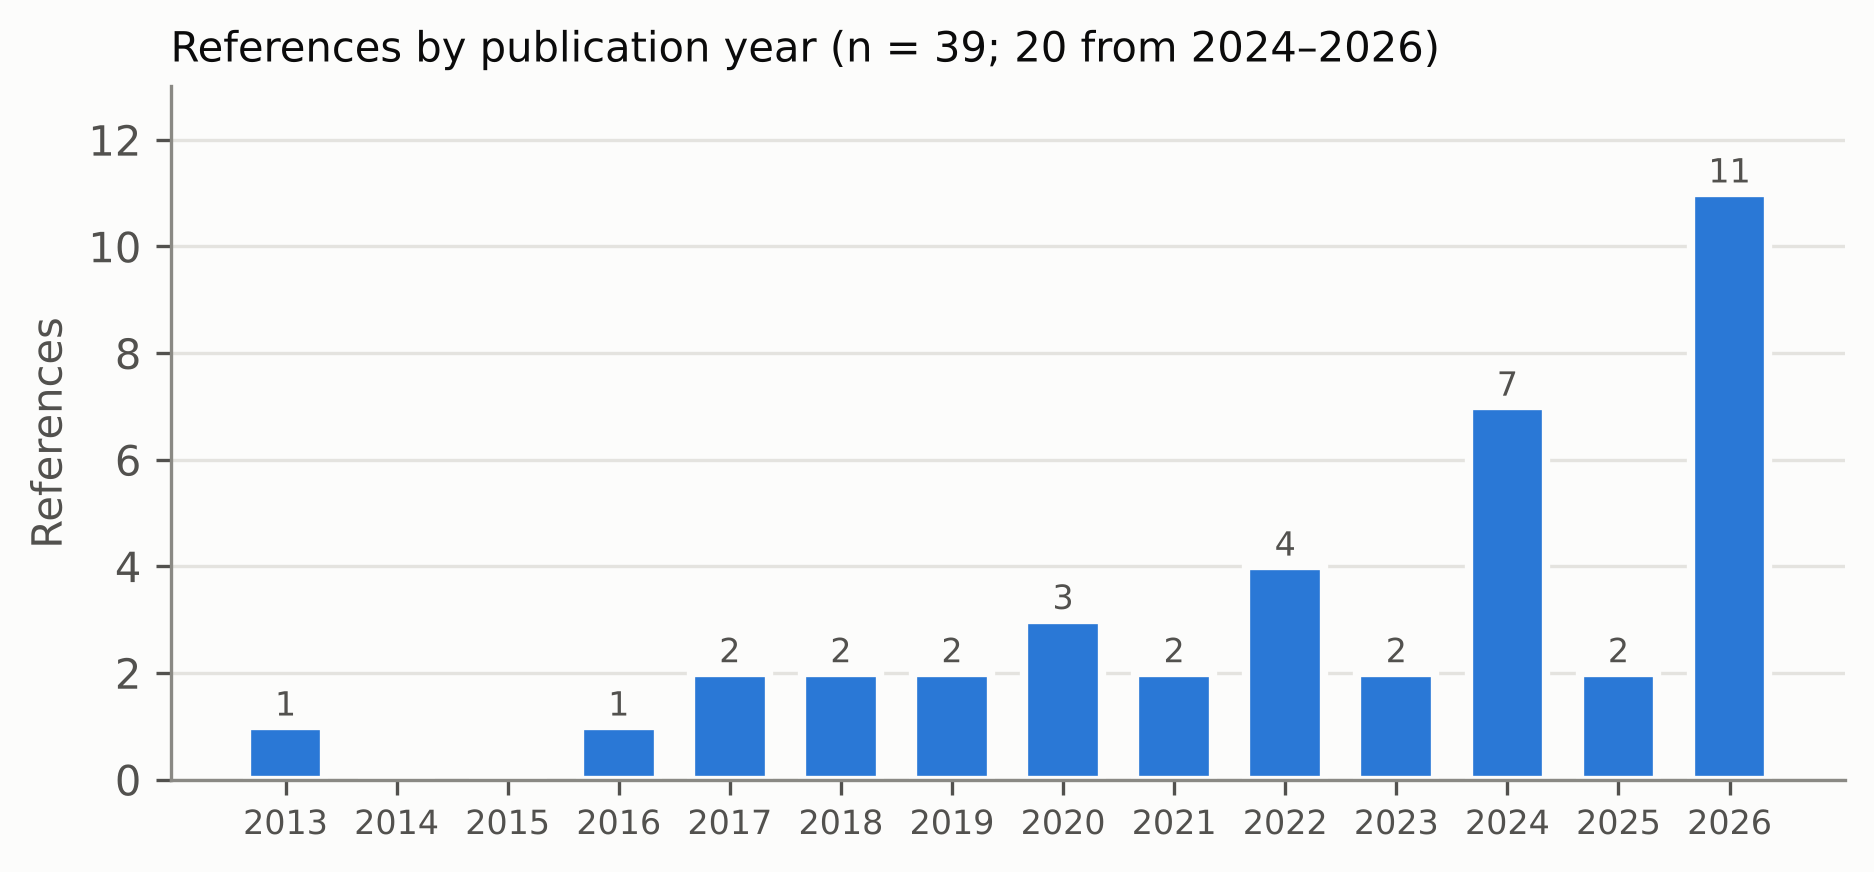
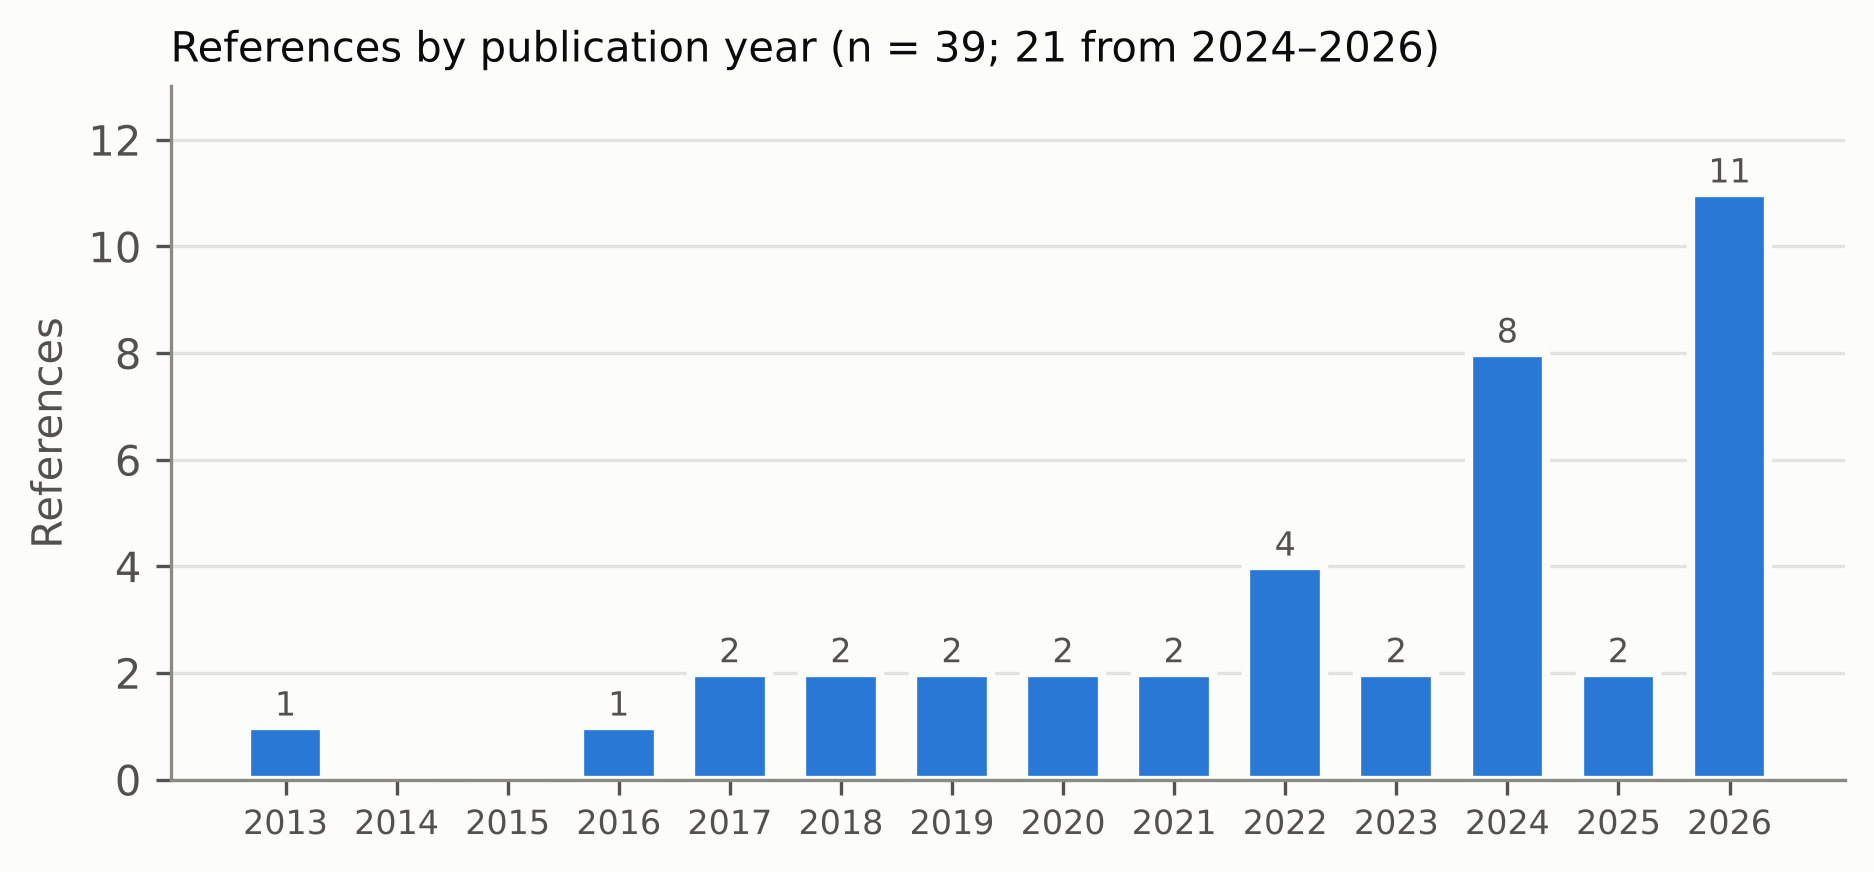
Replace Masanet with LBNL report as reference [1]; update figure 2.3
Claude-Session: https://claude.ai/code/session_01JnT9EYRxwG655caXrsEVoH

Changed region(s): [[0.7737, 0.4025, 0.8356, 0.4954], [0.5261, 0.7122, 0.588, 0.805], [0.5571, 0.031, 0.588, 0.0619]]

diff --git a/docs/literature/figures/make_ch2_figures.py b/docs/literature/figures/make_ch2_figures.py
@@ -103,7 +103,7 @@ def fig_positioning_map():
 
 # ---------------------------------------------------------------- Fig 2.3
 def fig_refs_by_year():
-    years = [2020, 2013, 2020, 2021, 2019, 2019, 2023, 2026, 2025, 2024, 2024, 2022, 2022,
+    years = [2024, 2013, 2020, 2021, 2019, 2019, 2023, 2026, 2025, 2024, 2024, 2022, 2022,
              2026, 2026, 2024, 2017, 2026, 2024, 2023, 2022, 2026, 2026, 2026, 2021, 2026,
              2026, 2026, 2022, 2024, 2018, 2016, 2024, 2025, 2026, 2024, 2017, 2020, 2018]
     yrs = np.arange(2013, 2027)

diff --git a/docs/literature/chapter2_draft_v1.md b/docs/literature/chapter2_draft_v1.md
@@ -1,6 +1,6 @@
 # Chapter 2 — Literature Review (Draft v1)
 
-> Status: full first draft covering all seven themes, based on 38 sources read (in full or in their key sections) plus one cited from its abstract (Masanet [1]). Figures 2.1–2.3 are generated by `figures/make_ch2_figures.py`. Citations in IEEE numeric style. Reference numbers follow the order in which sources were added to the draft; they will be renumbered by order of first appearance when converted to LaTeX/BibTeX. **Every claim must be checked by the author against the cited paper before submission.** Items marked *[TODO]* need an additional source.
+> Status: full first draft covering all seven themes, based on 38 sources read in full or in their key sections. Figures 2.1–2.3 are generated by `figures/make_ch2_figures.py`. Citations in IEEE numeric style. Reference numbers follow the order in which sources were added to the draft; they will be renumbered by order of first appearance when converted to LaTeX/BibTeX. **Every claim must be checked by the author against the cited paper before submission.** Items marked *[TODO]* need an additional source.
 
 ---
 
@@ -18,11 +18,11 @@ The review draws on 39 references identified through Crossref and IEEE Xplore se
 
 ## 2.2 AI Data Center Energy Demand
 
-Data centers consumed an estimated 240–340 TWh of electricity worldwide in 2022, about 1–1.3% of global demand [22]*[secondary citation: replace with the IEA source once obtained]*. In the United States, data center consumption reached 176 TWh in 2023, or 4.4% of national electricity use, and is projected to reach roughly 325–580 TWh by 2028—6.7–12.0% of forecast U.S. consumption—driven largely by AI-accelerated servers; at an average capacity utilization of 50%, this corresponds to 74–132 GW of data center power demand [40]. Some utilities report grid-connection waiting times of up to 7–10 years for such loads, as reported in [8]. Grid connections can now take more than five years in the United States and Europe, driving a trend toward "grid defection," in which data centers are fully or partly supplied by local microgrids with dedicated generation [28]. Earlier analyses found that global data center energy use grew far more slowly than computing output owing to efficiency gains [1]*[verify against full text]*; whether this holds in the AI era is uncertain.
+Data centers consumed an estimated 240–340 TWh of electricity worldwide in 2022, about 1–1.3% of global demand [22]*[secondary citation: replace with the IEA source once obtained]*. In the United States, data center consumption reached 176 TWh in 2023, or 4.4% of national electricity use, and is projected to reach roughly 325–580 TWh by 2028—6.7–12.0% of forecast U.S. consumption—driven largely by AI-accelerated servers; at an average capacity utilization of 50%, this corresponds to 74–132 GW of data center power demand [1]. Some utilities report grid-connection waiting times of up to 7–10 years for such loads, as reported in [8]. Grid connections can now take more than five years in the United States and Europe, driving a trend toward "grid defection," in which data centers are fully or partly supplied by local microgrids with dedicated generation [28]. Through the early and mid-2010s, U.S. data center electricity use remained nearly constant despite rapid industry growth, owing to efficiency gains such as improved cooling and power management, higher server utilization and reduced idle power; growth has since accelerated with the rapid emergence of AI hardware [1].
 
 Estimates themselves are uncertain. A review of 258 data center energy estimates from 46 publications (2007–2021) found that only 31% of the 676 underlying sources were peer-reviewed, that many lacked clear methods and data provenance, and that estimates relied heavily on private datasets [29]. The same review notes that unexpected data center demand is already constraining grid operators, for example in Amsterdam and London [29].
 
-**Load shape.** AI data centers draw power that is high and nearly constant on hourly timescales. In a production trace of 155,410 GPUs, median facility demand was 55.8 MW and only a small fraction of it was curtailable (Section 2.4) [26], and national energy models assume that AI servers used for training operate 80% of the time [40]. Facility-level consumption also includes cooling and power-conversion overheads, summarized by power usage effectiveness (PUE). Simulations across U.S. climates show that PUE varies widely with facility type and cooling system, with the highest values for poorly operated facilities in hot, humid climates [40]—relevant to data centers in the Gulf.
+**Load shape.** AI data centers draw power that is high and nearly constant on hourly timescales. In a production trace of 155,410 GPUs, median facility demand was 55.8 MW and only a small fraction of it was curtailable (Section 2.4) [26], and national energy models assume that AI servers used for training operate 80% of the time [1]. Facility-level consumption also includes cooling and power-conversion overheads, summarized by power usage effectiveness (PUE). Simulations across U.S. climates show that PUE varies widely with facility type and cooling system, with the highest values for poorly operated facilities in hot, humid climates [1]—relevant to data centers in the Gulf.
 
 **Implication for this work.** Because demand forecasts are uncertain and AI facilities are large and inflexible, this dissertation evaluates supply options for a range of data center sizes rather than a single forecast, and treats the data center load as constant.
 
@@ -119,7 +119,7 @@ No study was found that (i) treats a constant-load AI data center as inflexible;
 
 ## References
 
-[1] E. Masanet, A. Shehabi, N. Lei et al., "Recalibrating global data center energy-use estimates," *Science*, vol. 367, no. 6481, pp. 984–986, 2020, doi: 10.1126/science.aba3758. *(cited from abstract; full text not available)*
+[1] A. Shehabi, S. Smith, A. Hubbard et al., "2024 United States data center energy usage report," Lawrence Berkeley National Laboratory, Berkeley, CA, USA, Rep. LBNL-2001637, Dec. 2024, doi: 10.71468/P1WC7Q.
 [2] Z. Liu, A. Wierman, Y. Chen et al., "Data center demand response: Avoiding the coincident peak via workload shifting and local generation," *Performance Evaluation*, vol. 70, no. 10, pp. 770–791, 2013, doi: 10.1016/j.peva.2013.08.014.
 [3] M. Chen, C. Gao, M. Song et al., "Internet data centers participating in demand response: A comprehensive review," *Renew. Sustain. Energy Rev.*, vol. 117, Art. no. 109466, 2020, doi: 10.1016/j.rser.2019.109466.
 [4] M. Chen, C. Gao, M. Shahidehpour et al., "Internet data center load modeling for demand response considering the coupling of multiple regulation methods," *IEEE Trans. Smart Grid*, vol. 12, no. 3, pp. 2060–2076, 2021, doi: 10.1109/TSG.2020.3048032.
@@ -158,4 +158,3 @@ No study was found that (i) treats a constant-load AI data center as inflexible;
 [37] H. Z. Al Garni and A. Awasthi, "Solar PV power plant site selection using a GIS-AHP based approach with application in Saudi Arabia," *Appl. Energy*, vol. 206, pp. 1225–1240, 2017, doi: 10.1016/j.apenergy.2017.10.024.
 [38] A. M. Elshurafa and N. Peerbocus, "Electric vehicle deployment and carbon emissions in Saudi Arabia: A power system perspective," *Electr. J.*, vol. 33, no. 6, Art. no. 106774, 2020, doi: 10.1016/j.tej.2020.106774.
 [39] D. Mazzeo, G. Oliveti, C. Baglivo et al., "Energy reliability-constrained method for the multi-objective optimization of a photovoltaic-wind hybrid system with battery storage," *Energy*, vol. 156, pp. 688–708, 2018, doi: 10.1016/j.energy.2018.04.062.
-[40] A. Shehabi, S. Smith, A. Hubbard et al., "2024 United States data center energy usage report," Lawrence Berkeley National Laboratory, Berkeley, CA, USA, Rep. LBNL-2001637, Dec. 2024, doi: 10.71468/P1WC7Q.

diff --git a/docs/literature/chapter2_verification.md b/docs/literature/chapter2_verification.md
@@ -18,7 +18,7 @@ Method: every factual or numeric claim in `chapter2_draft_v1.md` was searched in
 | Section | Issue | Action |
 |---|---|---|
 | 2.2 | Global/US demand figures cited via [22] (Yang et al.) and US share/wait times via [8] (Li et al.) are **secondary citations** — both papers quote IEA/LBNL reports | Replace with primary sources: IEA *Energy and AI* (2025) and LBNL *2024 U.S. Data Center Energy Usage Report* (both free; need network access to iea.org / lbl.gov or user download) |
-| 2.2 | [1] Masanet cited from abstract only | Verify against full text (ILL) |
+| 2.2 | ~~[1] Masanet cited from abstract only~~ | ✏ Dropped; replaced by the LBNL report (now [1]), which documents the same 2010s efficiency plateau for the U.S. |
 
 ✏ Update: [28] Morstyn verified against the Oxford open-access copy — ">5 years" ✅; "grid defection" corrected from "on-site fossil generation" to "local microgrids with dedicated generation".
 | 2.2 | ~~PUE sentence has no source~~ | ✏ Resolved with LBNL report [40] |
